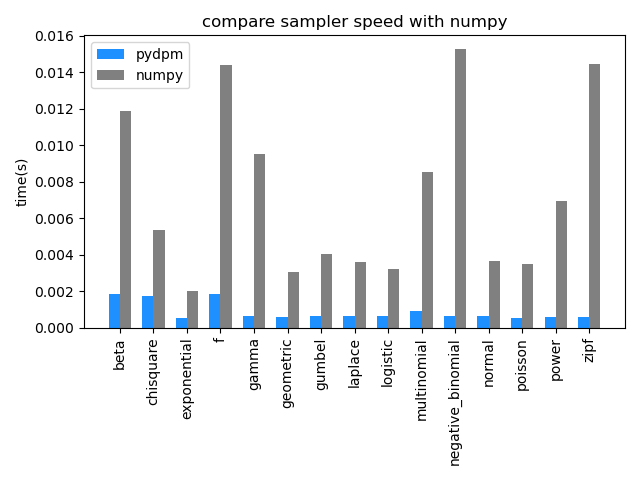
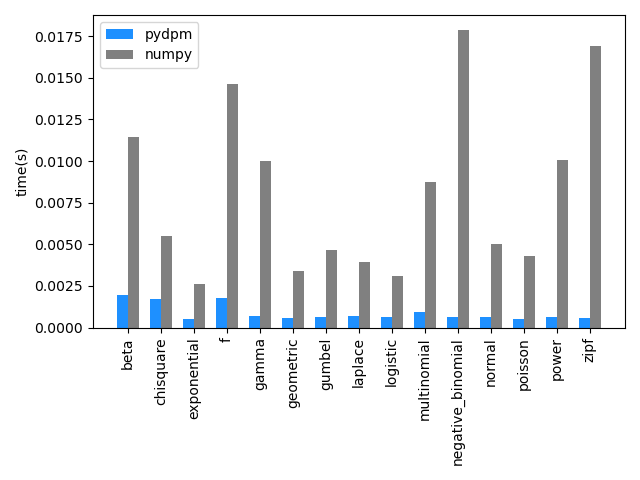
v2.1

diff --git a/pydpm/example/Sampler_Speed_Demo.py b/pydpm/example/Sampler_Speed_Demo.py
@@ -166,7 +166,7 @@ def plotComparision(distributions, title, types, *args):
     plt.legend()
     plt.xticks(index + bar_width/2, distributions, rotation=90)
     plt.ylabel('time(s)')
-    plt.title(title)
+    # plt.title(title)
     plt.tight_layout()
     plt.show()
 
